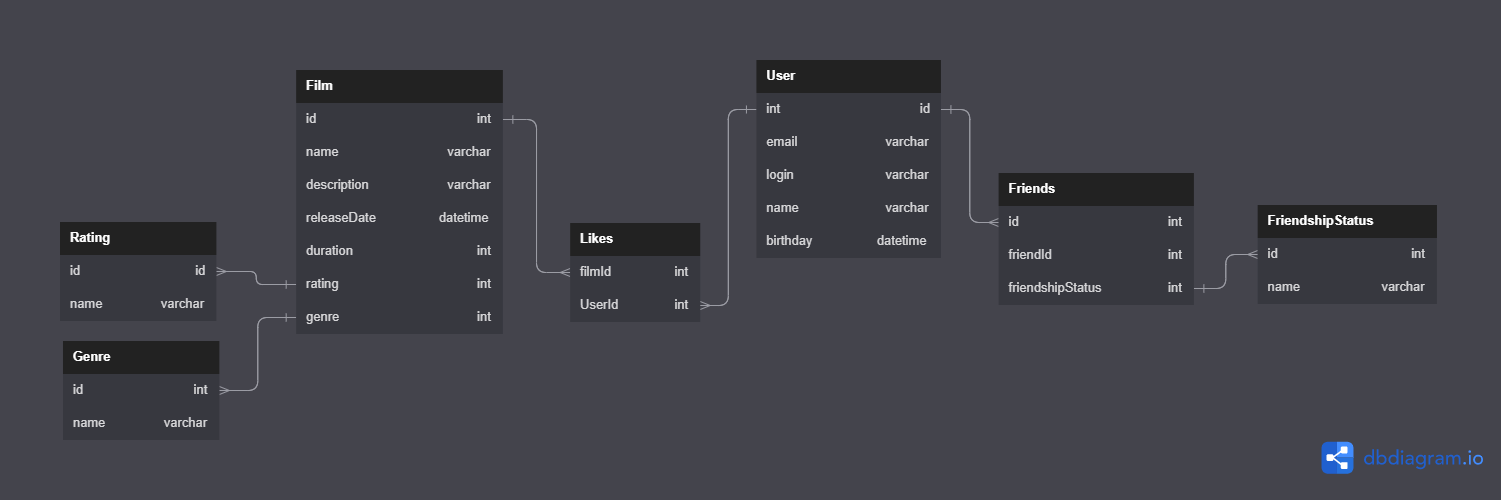
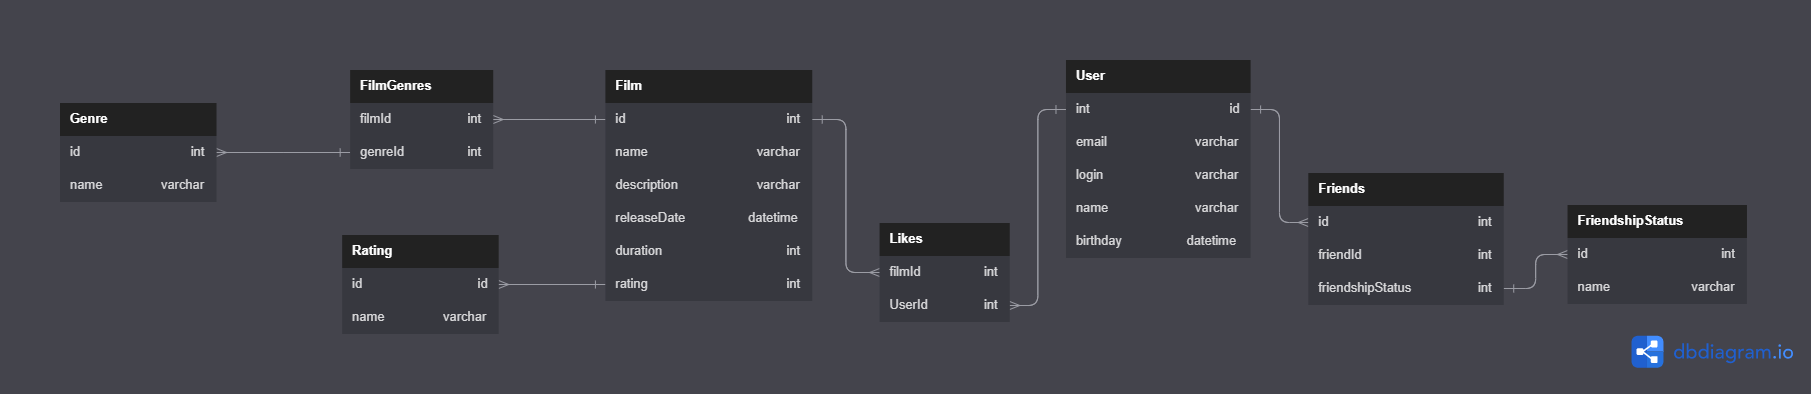
Feat: Добавлено конфигурирование базы данных.

diff --git a/src/main/java/ru/yandex/practicum/filmorate/models/enums/MPARating.java b/src/main/java/ru/yandex/practicum/filmorate/models/enums/MPARating.java
@@ -1,0 +1,16 @@
+package ru.yandex.practicum.filmorate.models.enums;
+
+/*
+G - у фильма нет возрастных ограничений,
+PG — детям рекомендуется смотреть фильм с родителями,
+PG-13 — детям до 13 лет просмотр не желателен,
+R — лицам до 17 лет просматривать фильм можно только в присутствии взрослого,
+NC-17 — лицам до 18 лет просмотр запрещён.
+ */
+public enum MPARating {
+    G,
+    PG,
+    PG13,
+    R,
+    NC17
+}

diff --git a/src/main/java/ru/yandex/practicum/filmorate/models/Film.java b/src/main/java/ru/yandex/practicum/filmorate/models/Film.java
@@ -8,6 +8,8 @@ import javax.validation.constraints.PositiveOrZero;
 import lombok.AllArgsConstructor;
 import lombok.Data;
 import lombok.NoArgsConstructor;
+import ru.yandex.practicum.filmorate.models.enums.FilmGenre;
+import ru.yandex.practicum.filmorate.models.enums.MPARating;
 
 
 @Data
@@ -24,6 +26,8 @@ public class Film implements Comparable<Film> {
     private LocalDate releaseDate;
     @Positive
     private int duration;
+    private FilmGenre filmGenre;
+    private MPARating rating;
     private HashSet<Integer> likesSet = new HashSet<>();
 
 

diff --git a/src/main/java/ru/yandex/practicum/filmorate/models/enums/FilmGenre.java b/src/main/java/ru/yandex/practicum/filmorate/models/enums/FilmGenre.java
@@ -1,0 +1,23 @@
+package ru.yandex.practicum.filmorate.models.enums;
+
+public enum FilmGenre {
+    Анимэ,
+    Биография,
+    Боевик,
+    Вестерн,
+    Детектив,
+    Документальный,
+    Драма,
+    Комедия,
+    Мелодрама,
+    Мультфильм,
+    Мюзикл,
+    Научный,
+    Приключение,
+    Спорт,
+    Триллер,
+    Ужасы,
+    Фантастика,
+    Фэнтэзи,
+    Эротика
+}
